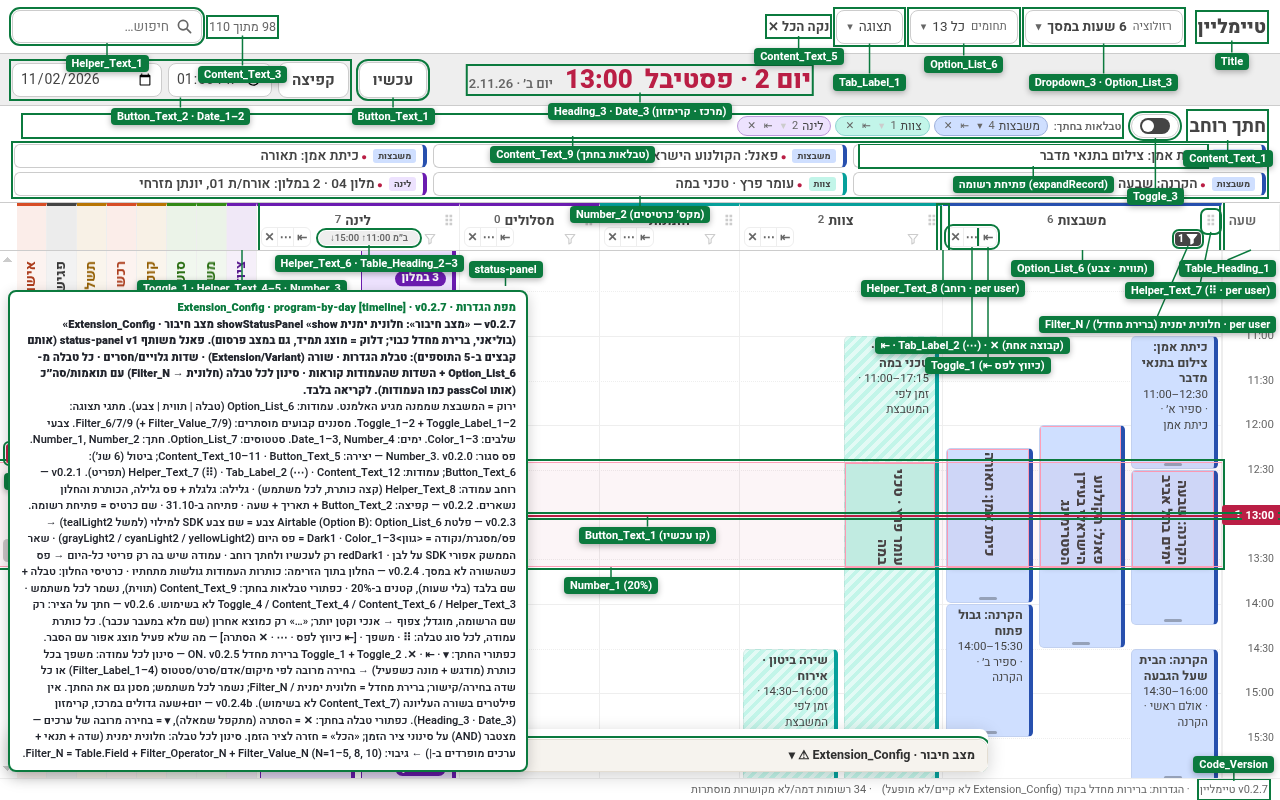
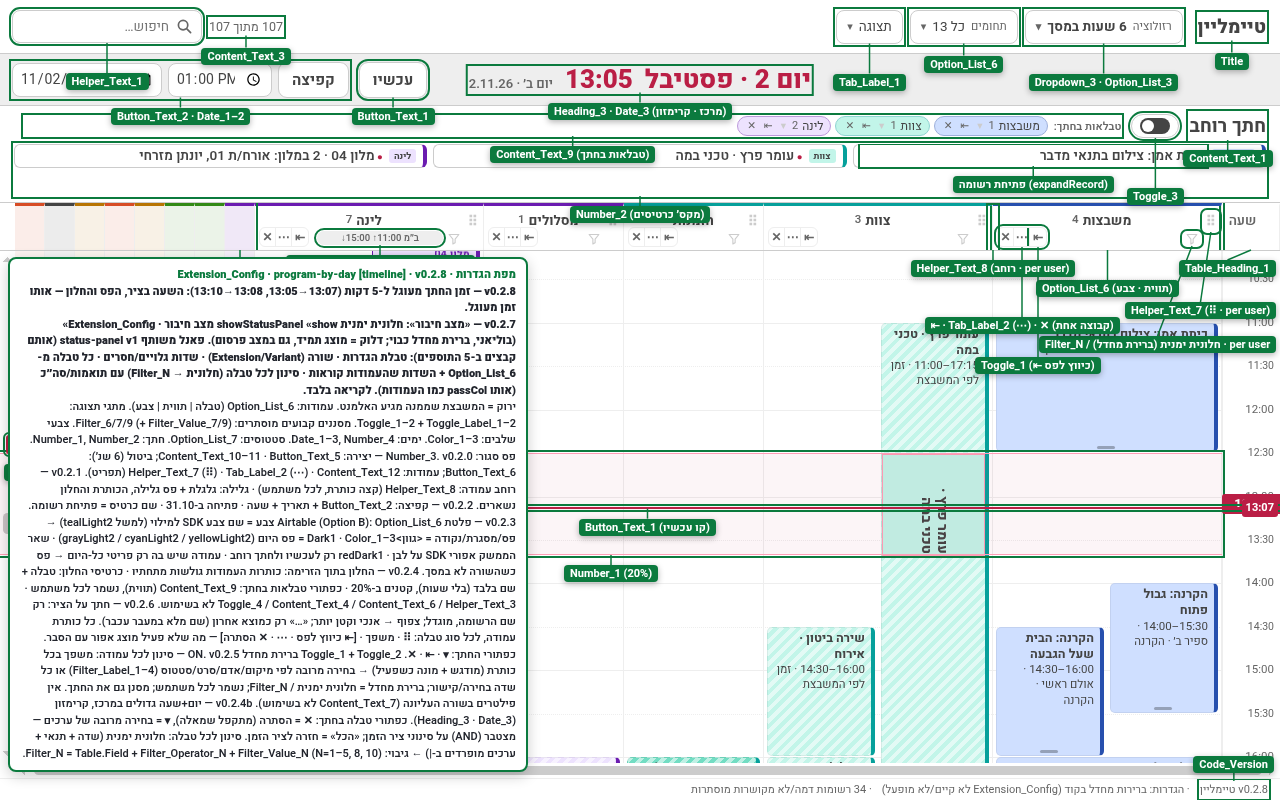
timeline v0.2.8: cross-section time snaps to 5 min (clock, axis tag, band position, window range); tests v028 + cdp-v028; config map v0.2.8

diff --git a/timeline/harness/overlay.js b/timeline/harness/overlay.js
@@ -18,6 +18,6 @@
    used.push({x,y,w,h});box.style.left=x+'px';box.style.top=y+'px';
    const ln=document.createElementNS('http://www.w3.org/2000/svg','line');ln.setAttribute('x1',r.left+r.width/2);ln.setAttribute('y1',y<r.top?r.top:r.bottom);ln.setAttribute('x2',x+w/2);ln.setAttribute('y2',y<r.top?y+h:y);ln.setAttribute('stroke','#0b7a3e');ln.setAttribute('stroke-width','1.5');svg.appendChild(ln)});
   const key=document.createElement('div');key.style.cssText='position:absolute;left:8px;bottom:28px;background:#fff;border:2px solid #0b7a3e;border-radius:8px;padding:8px 10px;font-weight:600;color:#22252d;max-width:520px;direction:rtl;line-height:1.5;box-shadow:0 4px 14px rgba(0,0,0,.2)';
-  key.innerHTML='<b style="color:#0b7a3e">מפת הגדרות · Extension_Config · program-by-day [timeline] · v0.2.7</b><br><b>v0.2.7 — «מצב חיבור»: חלונית ימנית showStatusPanel «show מצב חיבור · Extension_Config» (בוליאני, ברירת מחדל כבוי; דלוק = מוצג תמיד, גם במצב פרסום). פאנל משותף status-panel v1 (אותם קבצים ב-5 התוספים): טבלת הגדרות · שורה (Extension/Variant) · שדות גלויים/חסרים · כל טבלה מ-Option_List_6 + השדות שהעמודות קוראות · סינון לכל טבלה (חלונית → Filter_N) עם תואמות/סה״כ (אותו passCol כמו העמודות). לקריאה בלבד.</b><br>ירוק = המשבצת שממנה מגיע האלמנט. עמודות: Option_List_6 (טבלה | תווית | צבע). מתגי תצוגה: Toggle_1–2 + Toggle_Label_1–2. מסננים קבועים מוסתרים: Filter_6/7/9 (+ Filter_Value_7/9). צבעי שלבים: Color_1–3. ימים: Date_1–3, Number_4. ' + 'סטטוסים: Option_List_7. חתך: Number_1, Number_2. פס סגור: Number_3. v0.2.0 — יצירה: Content_Text_10–11 · Button_Text_5; ביטול (6 שנ׳): Button_Text_6; עמודות: Helper_Text_7 (⠿) · Tab_Label_2 (⋯) · Content_Text_12 (תפריט). v0.2.1 — רוחב עמודה: Helper_Text_8 (קצה כותרת, לכל משתמש) · גלילה: גלגלת + פס גלילה, הכותרת והחלון נשארים. v0.2.2 — קפיצה: Button_Text_2 + תאריך + שעה · פתיחה ב-31.10 · שם כרטיס = פתיחת רשומה. v0.2.3 — פלטת Airtable (Option B): Option_List_6 צבע = שם צבע SDK למילוי (למשל tealLight2) → פס/מסגרת/נקודה = &lt;גוון&gt;Dark1 · Color_1–3 = פס היום (grayLight2 / cyanLight2 / yellowLight2) · שאר הממשק אפורי SDK על לבן · redDark1 רק לעכשיו ולחתך רוחב · עמודה שיש בה רק פריטי כל-היום → פס כשהשורה לא במסך. v0.2.4 — החלון בתוך הזרימה: כותרות העמודות גולשות מתחתיו · כרטיסי החלון: טבלה + שם בלבד (בלי שעות), קטנים ב-20% · כפתורי טבלאות בחתך: Content_Text_9 (תווית), נשמר לכל משתמש · Toggle_4 / Content_Text_4 / Content_Text_6 / Helper_Text_3 לא בשימוש. v0.2.6 — חתך על הציר: רק שם הרשומה, מוגדל; צפוף → אנכי וקטן יותר; «…» רק כמוצא אחרון (שם מלא במעבר עכבר). כל כותרת עמודה, לכל סוג טבלה: ⠿ · משפך · [⇤ כיווץ לפס · ⋯ · ✕ הסתרה] — מה שלא פעיל מוצג אפור עם הסבר. כפתורי החתך: ▾ · ⇤ · ✕. Toggle_1 + Toggle_2 ברירת מחדל ON. v0.2.5 — סינון לכל עמודה: משפך בכל כותרת (מודגש + מונה כשפעיל) → בחירה מרובה לפי מיקום/אדם/סרט/סטטוס (Filter_Label_1–4) או כל שדה בחירה/קישור; ברירת מחדל = חלונית ימנית / Filter_N; נשמר לכל משתמש; מסנן גם את החתך. אין פילטרים בשורה העליונה (Content_Text_7 לא בשימוש). v0.2.4b — יום+שעה גדולים במרכז, קרימזון (Heading_3 · Date_3). כפתורי טבלה בחתך: ✕ = הסתרה (מתקפל שמאלה), ▾ = בחירה מרובה של ערכים — מצטבר (AND) על סינוני ציר הזמן; «הכל» = חזרה לציר הזמן. סינון לכל טבלה: חלונית ימנית (שדה + תנאי + ערכים מופרדים ב-|) ← גיבוי: Filter_N = Table.Field + Filter_Operator_N + Filter_Value_N (N=1–5, 8, 10).';L.appendChild(key)};
+  key.innerHTML='<b style="color:#0b7a3e">מפת הגדרות · Extension_Config · program-by-day [timeline] · v0.2.8</b><br><b>v0.2.8 — זמן החתך מעוגל ל-5 דקות (13:07→13:05, 13:08→13:10): השעה בציר, הפס והחלון — אותו זמן מעוגל.</b><br><b>v0.2.7 — «מצב חיבור»: חלונית ימנית showStatusPanel «show מצב חיבור · Extension_Config» (בוליאני, ברירת מחדל כבוי; דלוק = מוצג תמיד, גם במצב פרסום). פאנל משותף status-panel v1 (אותם קבצים ב-5 התוספים): טבלת הגדרות · שורה (Extension/Variant) · שדות גלויים/חסרים · כל טבלה מ-Option_List_6 + השדות שהעמודות קוראות · סינון לכל טבלה (חלונית → Filter_N) עם תואמות/סה״כ (אותו passCol כמו העמודות). לקריאה בלבד.</b><br>ירוק = המשבצת שממנה מגיע האלמנט. עמודות: Option_List_6 (טבלה | תווית | צבע). מתגי תצוגה: Toggle_1–2 + Toggle_Label_1–2. מסננים קבועים מוסתרים: Filter_6/7/9 (+ Filter_Value_7/9). צבעי שלבים: Color_1–3. ימים: Date_1–3, Number_4. ' + 'סטטוסים: Option_List_7. חתך: Number_1, Number_2. פס סגור: Number_3. v0.2.0 — יצירה: Content_Text_10–11 · Button_Text_5; ביטול (6 שנ׳): Button_Text_6; עמודות: Helper_Text_7 (⠿) · Tab_Label_2 (⋯) · Content_Text_12 (תפריט). v0.2.1 — רוחב עמודה: Helper_Text_8 (קצה כותרת, לכל משתמש) · גלילה: גלגלת + פס גלילה, הכותרת והחלון נשארים. v0.2.2 — קפיצה: Button_Text_2 + תאריך + שעה · פתיחה ב-31.10 · שם כרטיס = פתיחת רשומה. v0.2.3 — פלטת Airtable (Option B): Option_List_6 צבע = שם צבע SDK למילוי (למשל tealLight2) → פס/מסגרת/נקודה = &lt;גוון&gt;Dark1 · Color_1–3 = פס היום (grayLight2 / cyanLight2 / yellowLight2) · שאר הממשק אפורי SDK על לבן · redDark1 רק לעכשיו ולחתך רוחב · עמודה שיש בה רק פריטי כל-היום → פס כשהשורה לא במסך. v0.2.4 — החלון בתוך הזרימה: כותרות העמודות גולשות מתחתיו · כרטיסי החלון: טבלה + שם בלבד (בלי שעות), קטנים ב-20% · כפתורי טבלאות בחתך: Content_Text_9 (תווית), נשמר לכל משתמש · Toggle_4 / Content_Text_4 / Content_Text_6 / Helper_Text_3 לא בשימוש. v0.2.6 — חתך על הציר: רק שם הרשומה, מוגדל; צפוף → אנכי וקטן יותר; «…» רק כמוצא אחרון (שם מלא במעבר עכבר). כל כותרת עמודה, לכל סוג טבלה: ⠿ · משפך · [⇤ כיווץ לפס · ⋯ · ✕ הסתרה] — מה שלא פעיל מוצג אפור עם הסבר. כפתורי החתך: ▾ · ⇤ · ✕. Toggle_1 + Toggle_2 ברירת מחדל ON. v0.2.5 — סינון לכל עמודה: משפך בכל כותרת (מודגש + מונה כשפעיל) → בחירה מרובה לפי מיקום/אדם/סרט/סטטוס (Filter_Label_1–4) או כל שדה בחירה/קישור; ברירת מחדל = חלונית ימנית / Filter_N; נשמר לכל משתמש; מסנן גם את החתך. אין פילטרים בשורה העליונה (Content_Text_7 לא בשימוש). v0.2.4b — יום+שעה גדולים במרכז, קרימזון (Heading_3 · Date_3). כפתורי טבלה בחתך: ✕ = הסתרה (מתקפל שמאלה), ▾ = בחירה מרובה של ערכים — מצטבר (AND) על סינוני ציר הזמן; «הכל» = חזרה לציר הזמן. סינון לכל טבלה: חלונית ימנית (שדה + תנאי + ערכים מופרדים ב-|) ← גיבוי: Filter_N = Table.Field + Filter_Operator_N + Filter_Value_N (N=1–5, 8, 10).';L.appendChild(key)};
  setTimeout(()=>{act();setTimeout(draw,+(P.get('mapAt')||500))},700);
 })();

diff --git a/timeline/tests/v028.test.ts b/timeline/tests/v028.test.ts
@@ -1,0 +1,67 @@
+// v0.2.8 — the cross-section time snaps to the nearest 5 minutes (label, band position, window range)
+import {test} from 'node:test';
+import assert from 'node:assert/strict';
+import {readFileSync} from 'node:fs';
+import {XS_STEP, bandPx, buildDays, fmt, layout, mOf, nowLineM, roundTo, xsPlan, yOf, type Item} from '../frontend/logic/core';
+
+const days = buildDays('2026-10-16', '2026-11-10', '2026-11-01');
+const D = (date: string) => days.findIndex(d => d.date === date) * 1440;
+const it = (o: Partial<Item>): Item => ({table: 'Slots_Events', id: 'x', name: 'x', s: null, e: null, date: null, dateEnd: null, sub: '', inherited: false, flag: null, hall: [], people: [], films: [], status: null, st: null, slots: [], ...o}) as Item;
+const hm = (h: number, m: number) => h * 60 + m;
+
+test('rounding edges: 13:07 → 13:05, 13:08 → 13:10, half-way up, exact stays', () => {
+    assert.equal(XS_STEP, 5);
+    const b = D('2026-11-02');
+    assert.equal(fmt(roundTo(b + hm(13, 7))), '13:05');
+    assert.equal(fmt(roundTo(b + hm(13, 8))), '13:10');
+    assert.equal(fmt(roundTo(b + hm(13, 7.5))), '13:10');
+    assert.equal(fmt(roundTo(b + hm(13, 7.49))), '13:05');
+    assert.equal(fmt(roundTo(b + hm(13, 2.4))), '13:00');
+    assert.equal(fmt(roundTo(b + hm(13, 2.6))), '13:05');
+    assert.equal(roundTo(b + hm(13, 10)), b + hm(13, 10));
+    assert.equal(roundTo(b + hm(23, 58)), D('2026-11-03')); // 23:58 → 00:00 of the next day
+    assert.equal(roundTo(0.4), 0);
+});
+test('DST day (25.10.2026, 02:00 → 01:00): wall-clock minutes round the same way', () => {
+    const at = (iso: string) => nowLineM(days, Date.parse(iso)) as number;
+    assert.equal(fmt(roundTo(at('2026-10-25T09:07:00Z'))), '11:05'); // UTC+2 after the change
+    assert.equal(fmt(roundTo(at('2026-10-25T09:08:00Z'))), '11:10');
+    assert.equal(fmt(roundTo(at('2026-10-24T22:58:00Z'))), '02:00'); // 01:58 IDT (UTC+3) → 02:00
+    assert.equal(fmt(roundTo(at('2026-10-24T08:07:00Z'))), '11:05'); // UTC+3 before the change
+    assert.ok(roundTo(at('2026-10-25T09:07:00Z')) >= D('2026-10-25'));
+});
+const flat = layout(days, [it({s: D('2026-11-02') + hm(10, 0), e: D('2026-11-02') + hm(18, 0)})], [], ['Slots_Events'], {compress: false, pxh: 100}).segs;
+test('band moves onto the rounded time; window range = the band pixels', () => {
+    const vpH = 600,
+        frac = 0.2;
+    const m = D('2026-11-02') + hm(13, 7);
+    const scrollTop = yOf(flat, m) - vpH / 2;
+    const xp = xsPlan(flat, scrollTop, vpH, frac, m);
+    assert.equal(fmt(xp.t), '13:05');
+    assert.ok(Math.abs(scrollTop + xp.yc - yOf(flat, xp.t)) < 1e-6);
+    assert.ok(Math.abs(xp.top + xp.height / 2 - xp.yc) < 1e-6);
+    assert.equal(xp.height, bandPx(vpH, frac).height);
+    assert.ok(Math.abs(xp.yc - vpH / 2 + (2 * 100) / 60) < 1e-6); // 2 min up at 100 px/h
+    assert.ok(Math.abs(xp.a - mOf(flat, scrollTop + xp.top)) < 1e-9 && Math.abs(xp.b - mOf(flat, scrollTop + xp.top + xp.height)) < 1e-9);
+    assert.ok(Math.abs((xp.a + xp.b) / 2 - xp.t) < 1e-6); // uncompressed: band centred on the rounded time
+});
+test('compress ON: rounding still lands on a 5-min mark and the band centre sits on it', () => {
+    const segs = layout(days, [it({s: D('2026-11-02') + hm(14, 0), e: D('2026-11-02') + hm(16, 0)})], [], ['Slots_Events'], {compress: true, pxh: 100}).segs;
+    assert.ok(segs.some(s => s.kind === 'cmp'));
+    const vpH = 600;
+    for (const m of [D('2026-11-02') + hm(14, 33), D('2026-11-02') + hm(9, 17.3), D('2026-11-02') + hm(20, 2)]) {
+        const st = yOf(segs, m) - vpH / 2;
+        const xp = xsPlan(segs, st, vpH, 0.2, m);
+        assert.equal(xp.t % 5, 0);
+        assert.ok(Math.abs(xp.t - m) <= 2.5);
+        assert.ok(Math.abs(st + xp.yc - yOf(segs, xp.t)) < 1e-6);
+        assert.ok(xp.a <= xp.t && xp.b >= xp.t);
+    }
+});
+test('Timeline uses the plan for the clock, the band, the axis tag and the window', () => {
+    const src = readFileSync('frontend/Timeline.tsx', 'utf8');
+    assert.ok(/const curMin = xp\.t;/.test(src));
+    assert.ok(/const \[ba, bb\] = segs\.length \? \[xp\.a, xp\.b\]/.test(src));
+    assert.ok(/const bpx = \{top: xp\.top, height: xp\.height\}/.test(src));
+    assert.ok(/className="tnow num" style=\{\{top: xp\.yc - 10/.test(src));
+});

diff --git a/timeline/frontend/Timeline.tsx b/timeline/frontend/Timeline.tsx
@@ -15,6 +15,7 @@ import {
     bandSlice,
     lensPlan,
     bandLabel,
+    xsPlan,
     keptCompress,
     colWidths,
     normalizeWidths,
@@ -35,8 +36,6 @@ import {
     toggleIn,
     normalizeOff,
     keepCentre,
-    band,
-    bandPx,
     columnStates,
     dayBar,
     dayOf,
@@ -380,8 +379,11 @@ export function Timeline(p: TimelineProps) {
     // with «כווץ שעות ריקות» ON a compressed pixel spans many minutes, so reading it back would drift (12:00 → 12:04)
     const centreT = !segs.length ? curT.current : progY.current !== null && Math.abs(scrollTop - progY.current) < 2 ? curT.current : mAt(scrollTop + vpH / 2);
     const k = Math.max(0, Math.min(p.days.length - 1, Math.floor(centreT / DAY_MIN)));
-    const [ba, bb] = segs.length ? band(segs, scrollTop, vpH, p.numbers.bandFrac) : [0, 0];
-    const bpx = bandPx(vpH, p.numbers.bandFrac);
+    // v0.2.8 (the owner 12:17): the cross-section time snaps to the nearest 5 min; the band sits on that time and the window
+    // picks items from exactly the band's minutes
+    const xp = xsPlan(segs, scrollTop, vpH, p.numbers.bandFrac, centreT);
+    const [ba, bb] = segs.length ? [xp.a, xp.b] : [0, 0];
+    const bpx = {top: xp.top, height: xp.height};
     // v0.2.3: is the current day's all-day row on screen? (all-day-only columns strip away when it isn't)
     const adSeg = segs.find(s => s.kind === 'all' && s.k === k);
     const allDayInView = !adSeg || (adSeg.y < scrollTop + vpH && adSeg.y + adSeg.h > scrollTop);
@@ -857,7 +859,7 @@ export function Timeline(p: TimelineProps) {
     const wRows = winGridRows(p.numbers.maxCards);
     const maxCards = hits.length > p.numbers.maxCards ? p.numbers.maxCards - 1 : p.numbers.maxCards;
     const wEmpty = xs && hits.length === 0;
-    const curMin = centreT;
+    const curMin = xp.t;
 
     const menuT = openDd?.startsWith('cm:') ? openDd.slice(3) : null;
     const menuL = [...(T.Content_Text_12 || '').split('|').map(x => x.trim()), '', '', '', '', ''].map((x, n) => x || ['להתחלה', 'הזז ימינה', 'הזז שמאלה', 'לסוף', 'סגור עמודה'][n] || '');
@@ -1275,7 +1277,7 @@ export function Timeline(p: TimelineProps) {
                         </div>
                     </>
                 ) : null}
-                <div className="tnow num" style={{top: vpH / 2 - 10, height: 20, lineHeight: '20px'}}>
+                <div className="tnow num" style={{top: xp.yc - 10, height: 20, lineHeight: '20px'}} data-t={xp.t}>
                     <bdi dir="ltr">{fmt(curMin)}</bdi>
                 </div>
             </div>

diff --git a/timeline/frontend/logic/core.ts b/timeline/frontend/logic/core.ts
@@ -1032,3 +1032,18 @@ export function keptCompress(saved: {compress?: unknown; compressUser?: unknown}
     if (saved.compressUser === true) return saved.compress;
     return saved.compress === true ? true : def;
 }
+
+// ===================== v0.2.8: cross-section time snaps to 5 minutes (the owner 12:17) =====================
+export const XS_STEP = 5;
+/** nearest step on the timeline's wall-clock minutes (13:07 → 13:05, 13:08 → 13:10, x:x7.5 → up); 1440 is a multiple of 5,
+ *  so day boundaries stay exact (23:58 → 00:00 of the next day) */
+export const roundTo = (m: number, step = XS_STEP) => Math.round(m / step) * step;
+/** the cross-section for a scroll position: the rounded time, the band moved so its centre sits exactly on that time,
+ *  and the minute range [a, b] the window picks items from (same pixels as the drawn band) */
+export function xsPlan(segs: Seg[], scrollTop: number, vpH: number, frac: number, centreM: number, step = XS_STEP): {t: number; yc: number; top: number; height: number; a: number; b: number} {
+    const t = roundTo(centreM, step);
+    const {height} = bandPx(vpH, frac);
+    const yc = segs.length ? yOf(segs, t) - scrollTop : vpH / 2;
+    const top = yc - height / 2;
+    return {t, yc, top, height, a: segs.length ? mOf(segs, scrollTop + top) : 0, b: segs.length ? mOf(segs, scrollTop + top + height) : 0};
+}

diff --git a/README.md b/README.md
@@ -5,7 +5,7 @@ Source code for the Cinema South Festival (CSF) custom Airtable extensions, one 
 | Folder | Extension | Version | What it does |
 |---|---|---|---|
 | `countdown-homescreen/` | Countdown homescreen | v0.4.5 | Home-screen countdown to the festival with live record-count pills (per-pill filters) and a «מצב חיבור» connection-status panel. |
-| `timeline/` | Timeline | v0.2.7 | Multi-table festival timeline: columns per table, drag-create / move / resize with undo, cross-section window + band (names only, vertical when crowded), identical per-column header controls (⠿ · filter · ⇤ · ⋯ · ✕). |
+| `timeline/` | Timeline | v0.2.8 | Multi-table festival timeline: columns per table, drag-create / move / resize with undo, cross-section window + band (time snaps to 5 min) (names only, vertical when crowded), identical per-column header controls (⠿ · filter · ⇤ · ⋯ · ✕). |
 | `lists-ui/` | Lists UI («רשימות») | v0.6.1 | Interface extension for working lists: home, list page, compact and dynamic list views, sharing. |
 | `people-roles/` | People & Roles («אנשים ותפקידים») | v0.3.1 | Phone book plus people/role/assignment editing with duplicate-phone warnings and undo. |
 | `bulk-sheet/` | Bulk sheet («קופי פייסט - הזנה מרובה») | v0.5.1 | Spreadsheet-style copy-paste bulk entry into a table, in batches. |

diff --git a/timeline/RELEASE-NOTES.md b/timeline/RELEASE-NOTES.md
@@ -22,3 +22,5 @@ See /workspace/csf-demo-v13/PROD-RELEASE-TIMELINE-V010-2026-10-10.md
 - Cross-section window pills: ▾ · ⇤ · ✕ in the header order. ⇤ = narrow strip at the far left (click re-expands), ✕ = hidden from the window («הכל» restores). Saved per user.
 - «כווץ עמודות ריקות» and «כווץ שעות ריקות» both default ON. A user's own choice is kept; the pre-v0.2.6 auto-saved compress=false is not treated as a choice.
 - Fix: with compress ON, «עכשיו»/«קפיצה» show the exact target minute (no 12:00 → 12:04 drift).
+
+## v0.2.8 — the owner 12:17: the cross-section time snaps to the nearest 5 min (13:07 → 13:05, 13:08 → 13:10, x:x7.5 up). One plan (xsPlan) drives the band clock, the axis time tag, the band position (its centre sits on the rounded time) and the minute range the window picks items from. DST-safe (wall-clock minutes), works with compress ON. Includes v0.2.7 (status panel, other worker), first released with this version.
